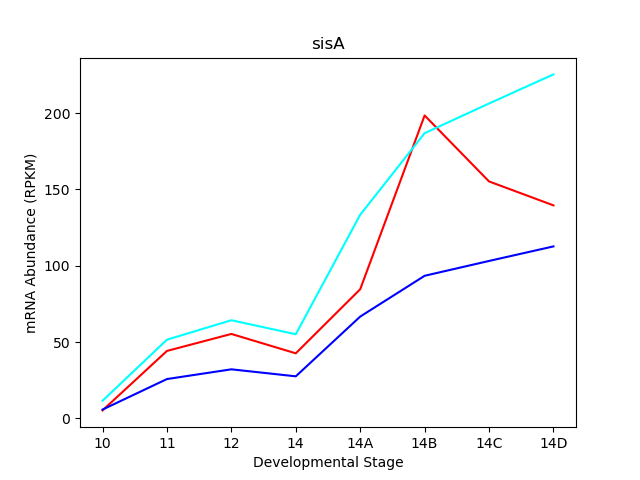
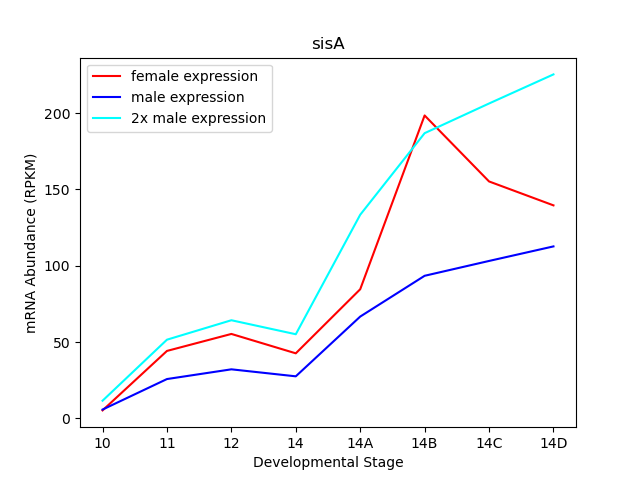
Add legend for homework 2 exercise and update png file

Changed region(s): [[0.125, 0.125, 0.4375, 0.2812]]

diff --git a/day2-homework/plot-sisA.py b/day2-homework/plot-sisA.py
@@ -1,41 +1,48 @@
 #!/usr/bin/env python
-
 import numpy as np
 import matplotlib.pyplot as plt
-
 # Get dataset to recreate Fig 3B from Lott et al 2011 PLoS Biology https://pubmed.gov/21346796
 # wget https://github.com/bxlab/cmdb-quantbio/raw/main/assignments/lab/bulk_RNA-seq/extra_data/all_annotated.csv
-
 transcripts = np.loadtxt( "all_annotated.csv", delimiter=",", usecols=0, dtype="<U30", skiprows=1 )
 print( "transcripts: ", transcripts[0:5] )
-
 samples = np.loadtxt( "all_annotated.csv", delimiter=",", max_rows=1, dtype="<U30" )[2:]
 print( "samples: ", samples[0:5] )
-
 data = np.loadtxt( "all_annotated.csv", delimiter=",", dtype=np.float32, skiprows=1, usecols=range(2, len(samples) + 2) )
 print( "data: ", data[0:5, 0:5] )
-
 # Find row with transcript of interest
 for i in range(len(transcripts)):
     if transcripts[i] == 'FBtr0073461':
         row = i
-
 # Find columns with samples of interest
-cols = []
+f_cols = []
+m_cols = []
 for i in range(len(samples)):
     if "female" in samples[i]:
-        cols.append(i)
-
+        f_cols.append(i)
+    elif "male" in samples[i]:
+        m_cols.append(i)
 # Subset data of interest
-expression = data[row, cols]
+f_expression = data[row, f_cols]
+m_expression = data[row, m_cols]
 
 # Prepare data
-x = samples[cols]
-y = expression
+#x = samples[f_cols]
+y_f = f_expression
+y_m = m_expression
+y_2m = 2 * np.array(m_expression)
+
+x = ['10', '11', '12', '14', '14A', '14B', '14C', '14D']
 
 # Plot data
 fig, ax = plt.subplots()
-ax.set_title( "FBtr0073461" )
-ax.plot( x, y )
+ax.set_title( "sisA" )
+ax.plot(x, y_f, c = "red", label = 'female expression')
+ax.plot(x, y_m, c = "blue", label = 'male expression')
+ax.plot(x, y_2m, c = "cyan", label = '2x male expression')
+ax.legend()
+ax.set_xlabel("Developmental Stage")
+ax.set_ylabel("mRNA Abundance (RPKM)")
 fig.savefig( "FBtr0073461.png" )
+plt.tight_layout()
+plt.show()
 plt.close( fig )
